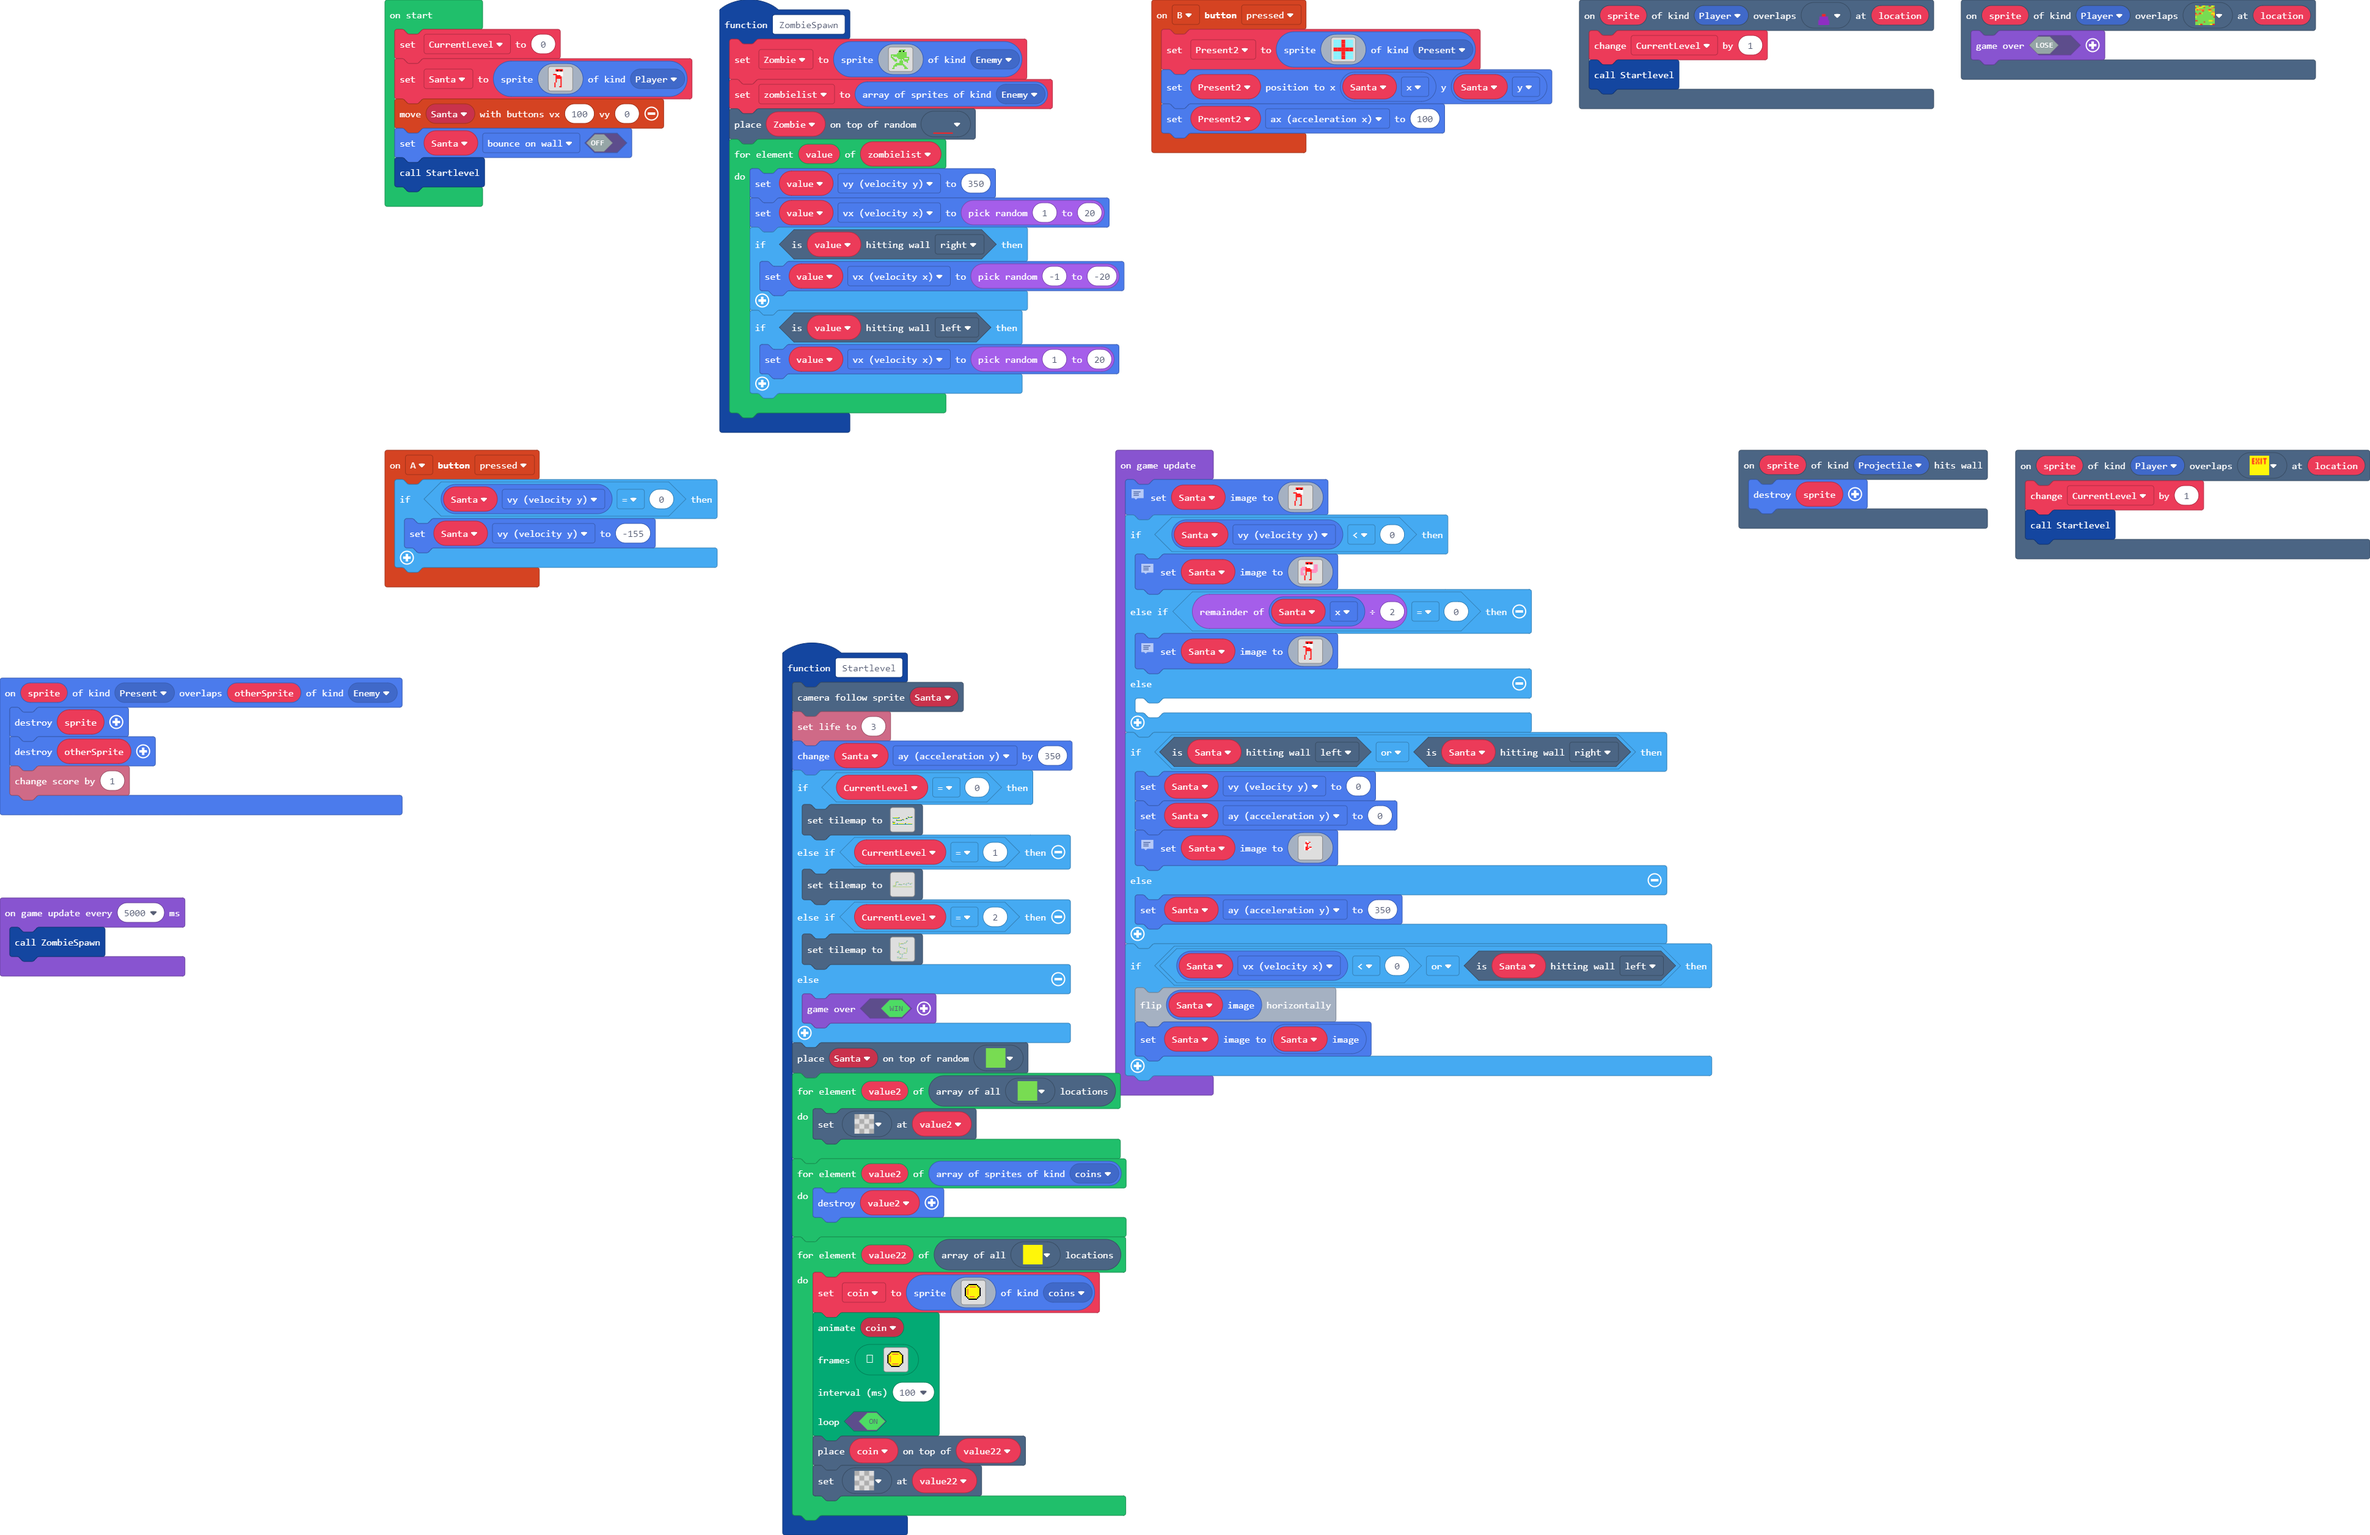
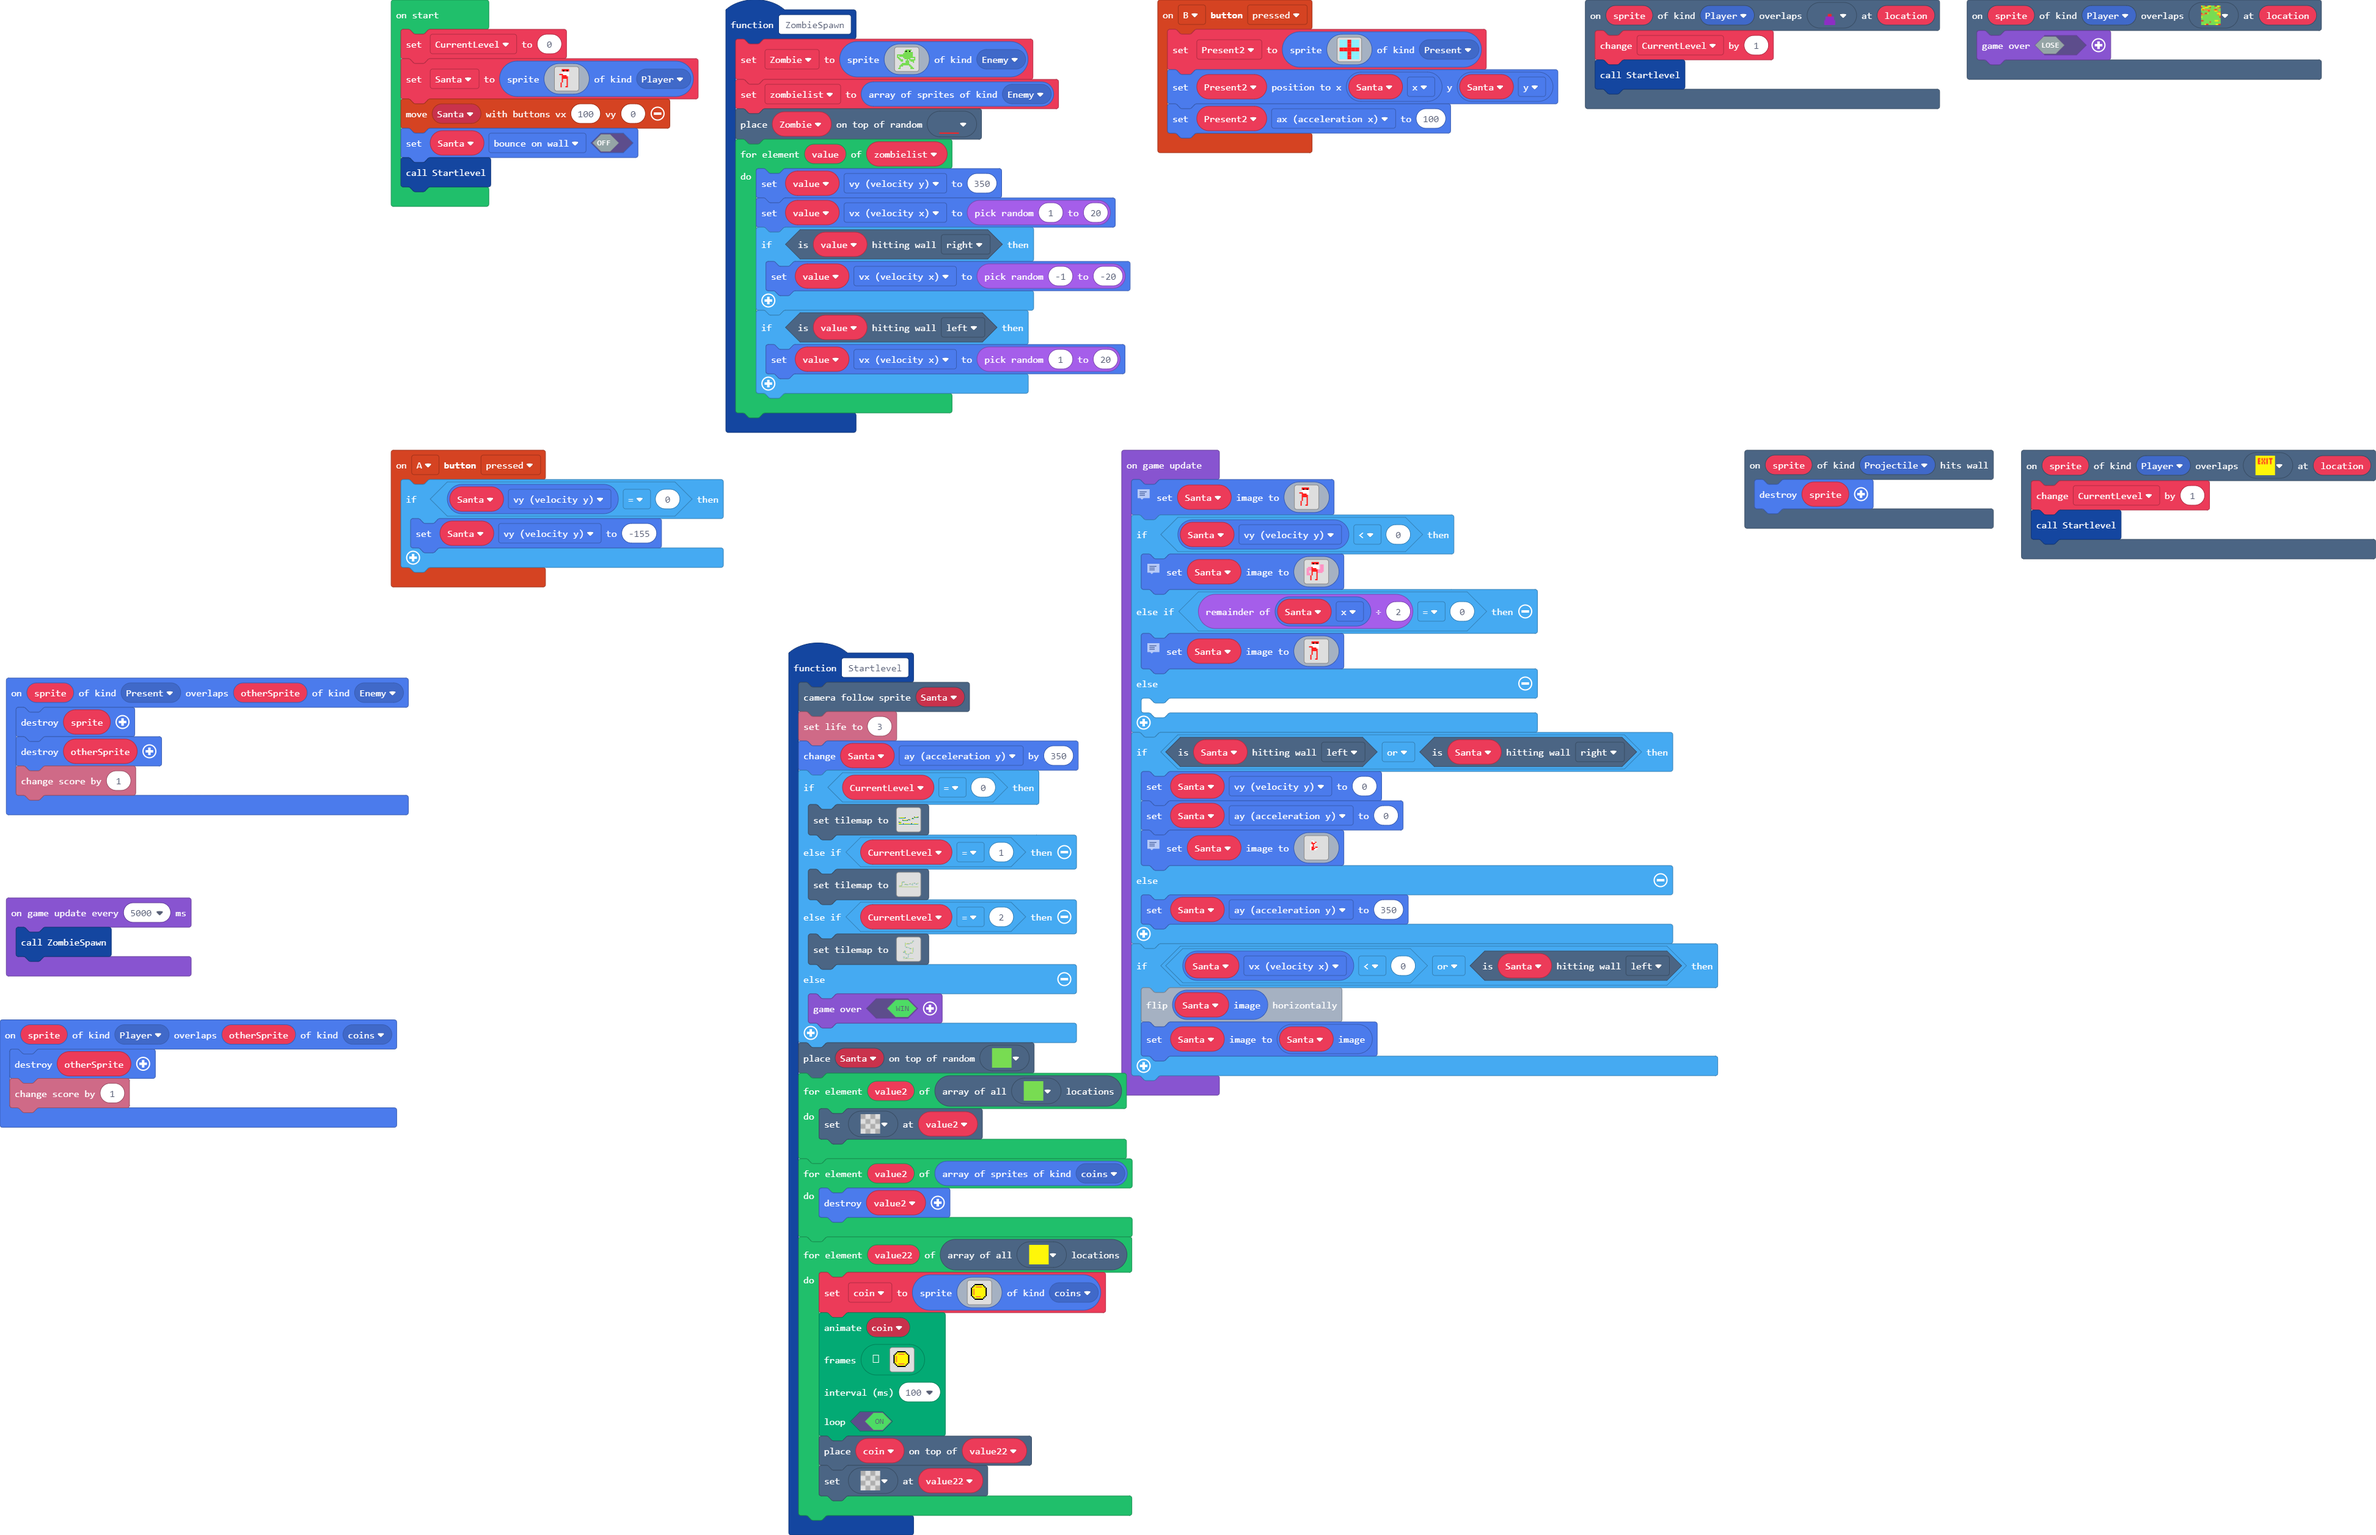
Update main.blocks, main.ts

diff --git a/main.ts b/main.ts
@@ -188,6 +188,10 @@ function ZombieSpawn () {
         }
     }
 }
+sprites.onOverlap(SpriteKind.Player, SpriteKind.coins, function (sprite, otherSprite) {
+    otherSprite.destroy()
+    info.changeScoreBy(1)
+})
 controller.B.onEvent(ControllerButtonEvent.Pressed, function () {
     Present2 = sprites.create(img`
 9 9 2 9 9 
